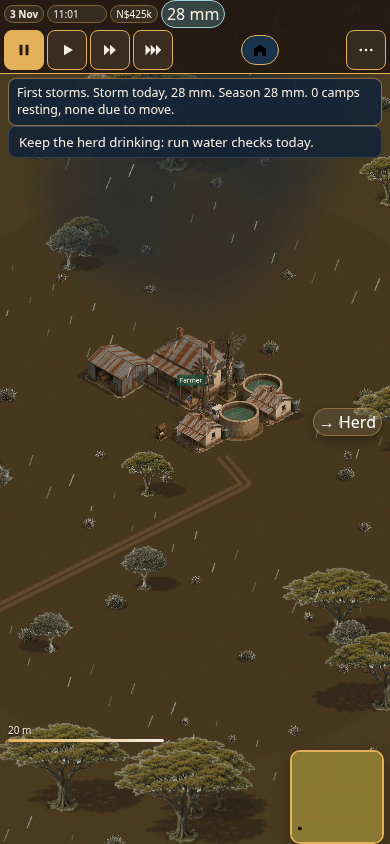
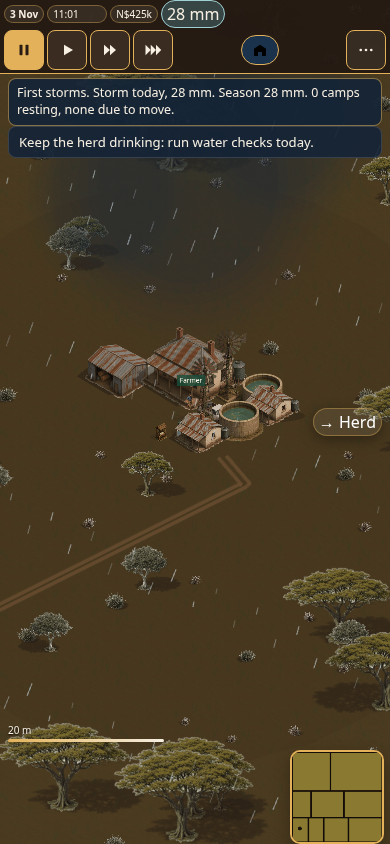
Keep each camp name in its own camp, and outline the minimap camps.
The name under the herd blob follows the camp the cows are standing in, not the camp id they left. The minimap strokes every camp so a storm that wets them the same colour still shows the grid.

Changed region(s): [[0.7385, 0.9242, 0.9231, 1.0], [0.9538, 0.9242, 0.9846, 0.9858]]

diff --git a/src/render/FarmScene.ts b/src/render/FarmScene.ts
@@ -124,7 +124,7 @@ import {
   type TreeLodRect,
 } from "./treeLod";
 import { palette } from "./palette";
-import { campLabelTile, offsetsForHerd } from "./herdLayout";
+import { campLabelTile, campUnderHerdMarker, offsetsForHerd } from "./herdLayout";
 import { layoutAnimals } from "./animalLayout";
 import { filterAnimals, TOLLY_OVER_300 } from "../sim/animals";
 import { startEscape, tickEscapeWanderRealtime } from "../sim/escapes";
@@ -2356,6 +2356,8 @@ export class FarmScene extends Phaser.Scene {
     this.syncVegetation(zoom);
     const view = camera.worldView;
     const nameScale = 1 / Math.max(zoom, 0.002);
+    const blobTile = herdWorldTile(this.state);
+    const underId = this.herdIsAMarker() ? campUnderHerdMarker(this.state.camps, blobTile.x, blobTile.y) : null;
     for (const [id, label] of this.campLabels) {
       const camp = this.state.camps.find((item) => item.id === id);
       if (!camp) continue;
@@ -2366,13 +2368,12 @@ export class FarmScene extends Phaser.Scene {
       label.setScale(nameScale);
       const homeX = label.getData("homeX") as number;
       const homeY = label.getData("homeY") as number;
-      const underHerd = this.herdIsAMarker() && id === this.state.herd.campId;
-      if (underHerd) {
+      if (underId !== null && id === underId) {
         const centre = this.cowCentreWorld();
         const zoomSafe = Math.max(zoom, 0.0004);
-        // Below the blob. The head-count chip sits above it, and a side shift still lands on the oval at phone zoom.
+        // The blob extends about 13 px below its centre. Sit the name just under that.
         label.setOrigin(0.5, 0);
-        label.setPosition(centre.x, centre.y + 24 / zoomSafe);
+        label.setPosition(centre.x, centre.y + 32 / zoomSafe);
         label.setDepth(26100);
       } else {
         label.setOrigin(0.5, 0.5);

diff --git a/src/render/herdLayout.test.ts b/src/render/herdLayout.test.ts
@@ -12,6 +12,7 @@ import { isoLayout, tileCenter, worldToTile } from "./iso";
 import { PIXELS_PER_METRE } from "./worldScale";
 import {
   campLabelTile,
+  campUnderHerdMarker,
   fileAlongPath,
   gateFileWidthPx,
   grazingCenterTile,
@@ -198,5 +199,21 @@ describe("organicTrekOffsets", () => {
     const b = organicTrekOffsets(HERD, 9, 0, 1, 0.5, 2500);
     const moved = a.some((offset, i) => Math.hypot(offset.x - b[i].x, offset.y - b[i].y) > 0.5);
     expect(moved).toBe(true);
+  });
+});
+
+describe("camp names", () => {
+  it("keeps each camp name in its own camp when the herd has left the spawn camp", () => {
+    const camps = [
+      { id: 0, rect: { x: 0, y: 0, w: 400, h: 300 } },
+      { id: 5, rect: { x: 0, y: 900, w: 400, h: 500 } },
+    ];
+    const spawnCampId = 0;
+    const blob = { x: 180, y: 1100 };
+    const holding = campUnderHerdMarker(camps, blob.x, blob.y);
+    expect(holding).toBe(5);
+    expect(holding).not.toBe(spawnCampId);
+    expect(campUnderHerdMarker(camps, 40, 40)).toBe(spawnCampId);
+    expect(campUnderHerdMarker(camps, 900, 900)).toBeNull();
   });
 });

diff --git a/src/render/colour.ts b/src/render/colour.ts
@@ -223,6 +223,16 @@ export function paintMinimap(canvas: HTMLCanvasElement, state: GameState): void 
       ctx.fillStyle = toCss(campFillColour(grazeableFraction(camp), camp.soilMoistureMm));
       ctx.fillRect(camp.rect.x * cw, camp.rect.y * ch, Math.max(1, camp.rect.w * cw), Math.max(1, camp.rect.h * ch));
     });
+    // A storm can paint every camp the same wet colour. The lines keep the camps readable.
+    // assumption, tune by eye, not sourced. 3 canvas px still reads after the minimap is scaled down.
+    ctx.lineWidth = 3;
+    ctx.strokeStyle = toCss(palette.fenceInk);
+    state.camps.forEach((camp) => {
+      if (!camp.rect) return;
+      const rw = Math.max(2, camp.rect.w * cw);
+      const rh = Math.max(2, camp.rect.h * ch);
+      ctx.strokeRect(camp.rect.x * cw + 1, camp.rect.y * ch + 1, rw - 1, rh - 1);
+    });
     const camp = state.camps.find((item) => item.id === state.herd.campId);
     if (!camp) return;
     ctx.beginPath();

diff --git a/src/render/herdLayout.ts b/src/render/herdLayout.ts
@@ -671,6 +671,23 @@ function tileNearHomestead(state: GameState, x: number, y: number, clearance: nu
   return false;
 }
 
+/**
+ * The camp the herd marker is standing in.
+ * herd.campId can still name the camp the herd left, so the name follows the blob, not that id.
+ */
+export function campUnderHerdMarker(
+  camps: Array<{ id: number; rect?: { x: number; y: number; w: number; h: number } }>,
+  x: number,
+  y: number,
+): number | null {
+  for (const camp of camps) {
+    const rect = camp.rect;
+    if (!rect) continue;
+    if (x >= rect.x && y >= rect.y && x < rect.x + rect.w && y < rect.y + rect.h) return camp.id;
+  }
+  return null;
+}
+
 /** Camp number sits on grass. If the centroid falls on the yard, move it off the buildings. */
 export function campLabelTile(state: GameState, camp: CampState): TilePoint {
   if (camp.rect) {
